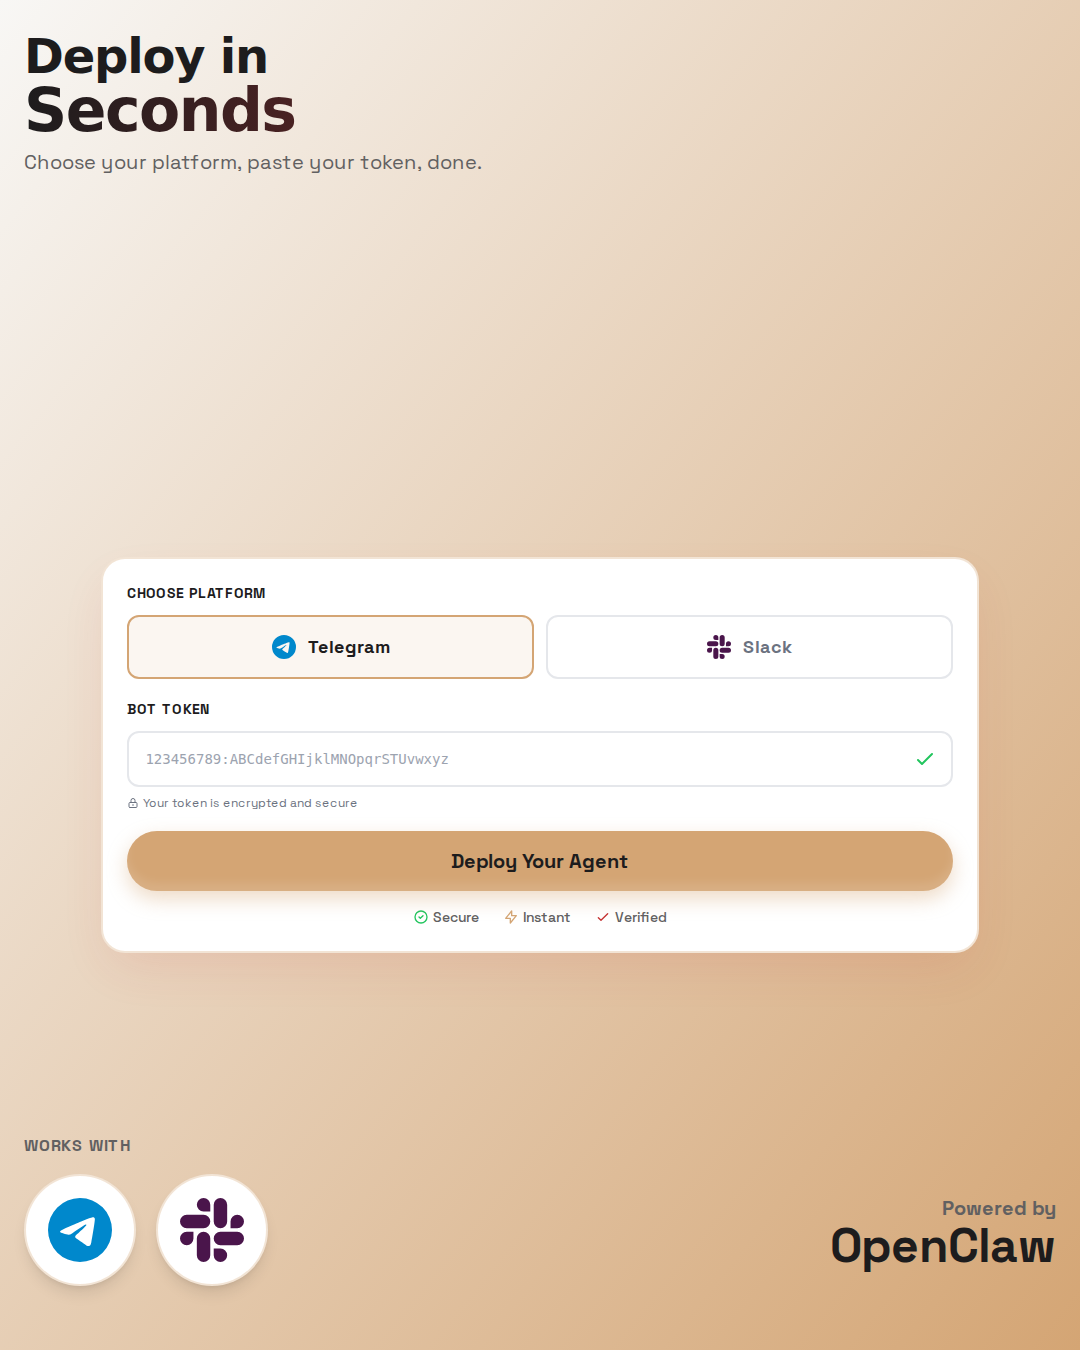
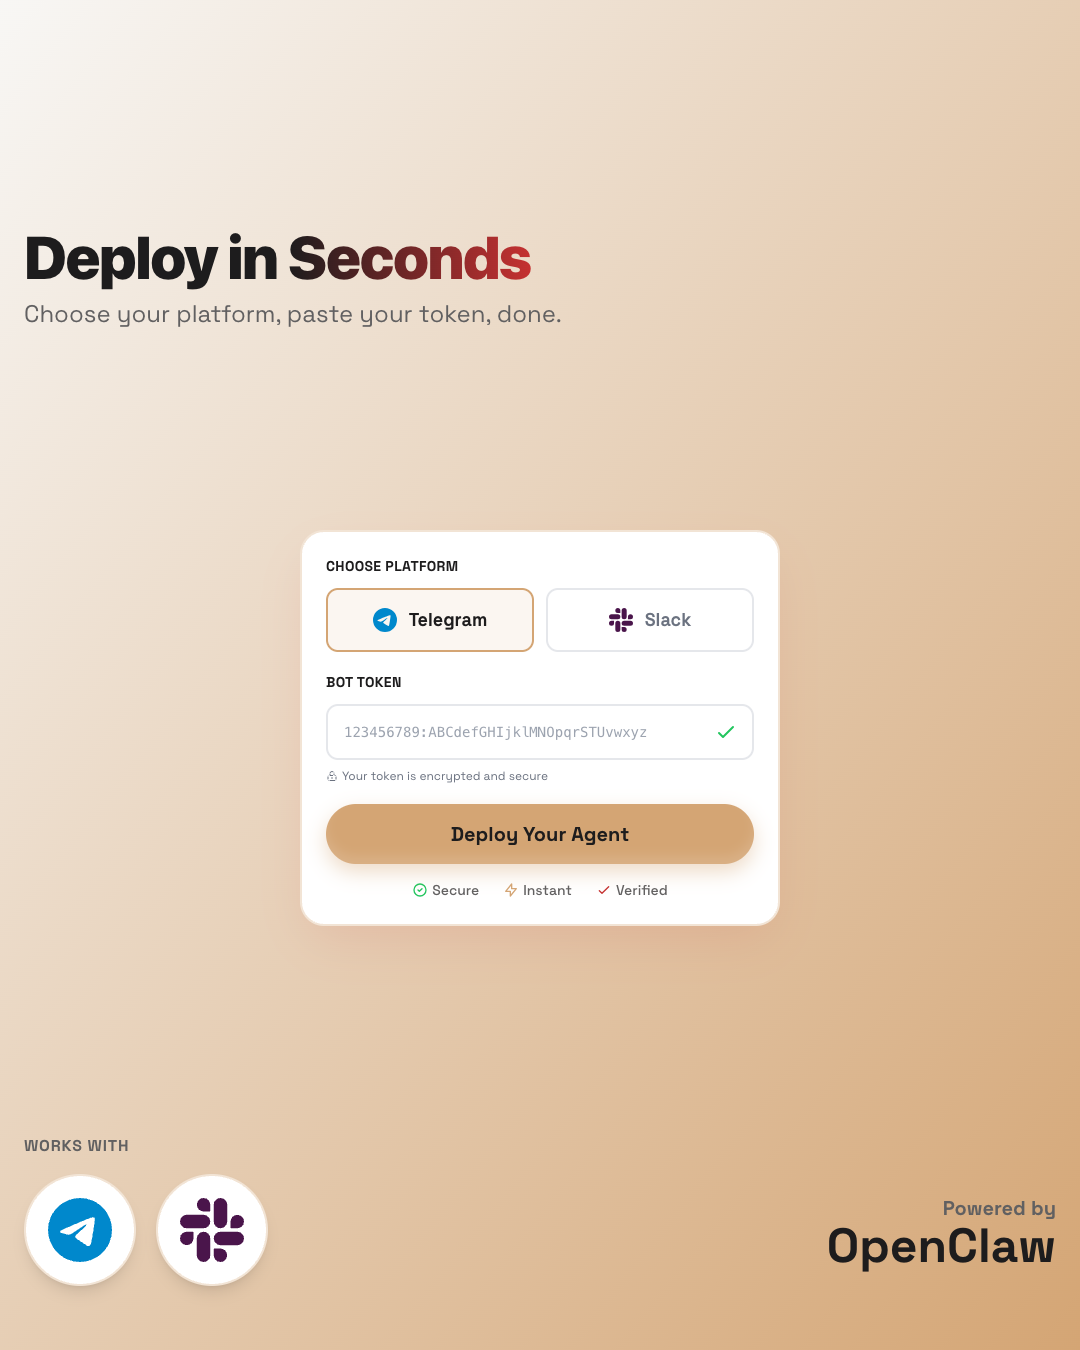
Revamped all post 1 slides with new directions

diff --git a/pages/slide-05-enhanced.js b/pages/slide-05-enhanced.js
@@ -5,60 +5,87 @@ const spaceGrotesk = Space_Grotesk({ subsets: ['latin'], display: 'swap' });
 
 const Slide05CTA = () => {
   return (
-    <div className={`${spaceGrotesk.className} min-h-screen w-full flex flex-col items-center justify-center bg-gradient-to-br from-[#F8F7F5] to-[#D4A574] p-8 font-sans antialiased`}>
-      {/* Main Content */}
-      <div className="text-center max-w-[800px]">
-        {/* Headline */}
-        <h1 className="font-sans text-6xl md:text-7xl font-bold tracking-tight leading-[1.1] bg-gradient-to-r from-[#1D1C1D] via-[#c53131] via-[#D4A574] to-[#1D1C1D] bg-clip-text text-transparent bg-[length:200%_auto] mb-6">
-          Ready for Your<br/>AI Assistant?
-        </h1>
-
-        {/* Subheadline */}
-        <p className="text-2xl md:text-3xl text-[#616061] font-medium mb-10">
-          Deploy in 60 seconds. No setup required.
-        </p>
-
-        {/* CTA Button - Shimmer Style */}
-        <div className="mb-8">
-          <button 
-            className="group relative px-12 py-4 rounded-full overflow-hidden border border-white/20 text-[#1D1C1D] font-bold text-xl shadow-lg transition-all duration-300 hover:-translate-y-0.5 hover:shadow-xl active:scale-95"
-            style={{ background: '#D4A574' }}
-          >
-            {/* Shimmer effect */}
-            <div className="absolute inset-0 -z-10 blur-[2px] overflow-visible">
-              <div className="absolute inset-0 h-full animate-[shimmer_3s_infinite]">
-                <div className="absolute -inset-full w-auto h-full animate-[spin_3s_linear_infinite] bg-[conic-gradient(from_225deg,transparent_0,#1A1A1A_90deg,transparent_90deg)] opacity-20" />
-              </div>
-            </div>
-            
-            {/* Highlight */}
-            <div className="absolute inset-0 rounded-full shadow-[inset_0_-8px_10px_#ffffff1f] group-hover:shadow-[inset_0_-6px_10px_#ffffff2a] transition-all duration-300" />
-            
-            {/* Content */}
-            <span className="relative z-10 flex items-center justify-center gap-2">
-              Deploy Now
-              <svg className="w-5 h-5 transition-transform group-hover:translate-x-1" fill="none" viewBox="0 0 24 24" stroke="currentColor">
-                <path strokeLinecap="round" strokeLinejoin="round" strokeWidth={2} d="M14 5l7 7m0 0l-7 7m7-7H3" />
-              </svg>
-            </span>
-          </button>
-        </div>
-
-        {/* URL */}
-        <p className="text-lg text-[#616061] font-medium">
-          instantclaw.com
-        </p>
-      </div>
-
-      {/* Bottom Branding */}
-      <div className="absolute bottom-10 flex items-center gap-3">
+    <div className={`${spaceGrotesk.className} min-h-screen w-full flex flex-col bg-gradient-to-br from-[#F8F7F5] to-[#D4A574] p-6 font-sans antialiased relative`}>
+      {/* Top: InstantClaw Logo - Same as Slide 01 Revised */}
+      <div className="flex items-center gap-4 mb-4">
         <img 
           src="/instantclaw-logo.png" 
           alt="InstantClaw" 
-          className="h-10 w-auto"
+          className="h-28 w-28"
           onError={(e) => { e.target.style.display = 'none'; }}
         />
-        <span className="text-2xl font-bold text-[#1D1C1D]">InstantClaw</span>
+        <span className="text-4xl font-bold tracking-tight text-[#1D1C1D]">InstantClaw</span>
+      </div>
+
+      {/* Main Content - Headlines and core content unchanged */}
+      <div className="flex-1 flex items-center justify-center">
+        <div className="text-center max-w-[800px]">
+          {/* Headline */}
+          <h1 className="font-sans text-6xl md:text-7xl font-bold tracking-tight leading-[1.1] bg-gradient-to-r from-[#1D1C1D] via-[#c53131] via-[#D4A574] to-[#1D1C1D] bg-clip-text text-transparent bg-[length:200%_auto] mb-6">
+            Ready for Your<br/>AI Assistant?
+          </h1>
+
+          {/* Subheadline */}
+          <p className="text-2xl md:text-3xl text-[#616061] font-medium mb-10">
+            Deploy in 60 seconds. No setup required.
+          </p>
+
+          {/* CTA Button - Shimmer Style */}
+          <div className="mb-8">
+            <button 
+              className="group relative px-12 py-4 rounded-full overflow-hidden border border-white/20 text-[#1D1C1D] font-bold text-xl shadow-lg transition-all duration-300 hover:-translate-y-0.5 hover:shadow-xl active:scale-95"
+              style={{ background: '#D4A574' }}
+            >
+              {/* Shimmer effect */}
+              <div className="absolute inset-0 -z-10 blur-[2px] overflow-visible">
+                <div className="absolute inset-0 h-full animate-[shimmer_3s_infinite]">
+                  <div className="absolute -inset-full w-auto h-full animate-[spin_3s_linear_infinite] bg-[conic-gradient(from_225deg,transparent_0,#1A1A1A_90deg,transparent_90deg)] opacity-20" />
+                </div>
+              </div>
+              
+              {/* Highlight */}
+              <div className="absolute inset-0 rounded-full shadow-[inset_0_-8px_10px_#ffffff1f] group-hover:shadow-[inset_0_-6px_10px_#ffffff2a] transition-all duration-300" />
+              
+              {/* Content */}
+              <span className="relative z-10 flex items-center justify-center gap-2">
+                Deploy Now
+                <svg className="w-5 h-5 transition-transform group-hover:translate-x-1" fill="none" viewBox="0 0 24 24" stroke="currentColor">
+                  <path strokeLinecap="round" strokeLinejoin="round" strokeWidth={2} d="M14 5l7 7m0 0l-7 7m7-7H3" />
+                </svg>
+              </span>
+            </button>
+          </div>
+
+          {/* URL */}
+          <p className="text-lg text-[#616061] font-medium">
+            instantclaw.com
+          </p>
+        </div>
+      </div>
+
+      {/* Bottom Left: Platform Logos - Same as Slide 01 Revised */}
+      <div className="absolute bottom-16 left-6">
+        <p className="text-base text-[#616061] font-bold mb-4 uppercase tracking-wider">
+          Works with
+        </p>
+        <div className="flex items-center gap-5">
+          <div className="w-28 h-28 rounded-full bg-white flex items-center justify-center shadow-lg border-2 border-[#D4A574]/30">
+            <img src="/telegram.svg" alt="Telegram" className="w-16 h-16" />
+          </div>
+          <div className="w-28 h-28 rounded-full bg-white flex items-center justify-center shadow-lg border-2 border-[#D4A574]/30">
+            <img src="/slack.svg" alt="Slack" className="w-16 h-16" />
+          </div>
+        </div>
+      </div>
+
+      {/* Bottom Right: Powered by OpenClaw - Same as Slide 01 Revised */}
+      <div className="absolute bottom-20 right-6 text-right">
+        <p className="text-xl text-[#616061] font-bold">
+          Powered by
+        </p>
+        <p className="text-5xl font-black text-[#1D1C1D]">
+          OpenClaw
+        </p>
       </div>
     </div>
   );

diff --git a/pages/slide-04-staggered.js b/pages/slide-04-staggered.js
@@ -44,50 +44,71 @@ const Slide04Staggered = () => {
   ];
 
   return (
-    <div className={`${spaceGrotesk.className} min-h-screen w-full flex flex-col items-center justify-center bg-gradient-to-br from-[#F8F7F5] to-[#D4A574] p-6 font-sans antialiased`}>
-      {/* Title */}
-      <div className="text-center mb-8">
-        <h1 className="font-sans text-5xl md:text-6xl font-bold tracking-tight bg-gradient-to-r from-[#1D1C1D] via-[#c53131] via-[#D4A574] to-[#1D1C1D] bg-clip-text text-transparent bg-[length:200%_auto]">
-          Your AI Agent Handles
+    <div className={`${spaceGrotesk.className} min-h-screen w-full flex flex-col bg-gradient-to-br from-[#F8F7F5] to-[#D4A574] px-6 py-6 font-sans antialiased relative`}>
+      {/* TOP: Headline centered vertically in the space above the content */}
+      <div className="flex-1 flex flex-col justify-center">
+        <h1 className="font-sans text-6xl font-black tracking-tight text-[#1D1C1D] leading-[1.1]">
+          Your AI Agent{' '}
+          <span className="bg-gradient-to-r from-[#1D1C1D] via-[#c53131] via-[#D4A574] to-[#1D1C1D] bg-clip-text text-transparent bg-[length:200%_auto]">Handles</span>
         </h1>
+        <p className="text-2xl text-[#616061] mt-2">
+          Transcribe, analyze, create — and 100+ more.
+        </p>
       </div>
 
-      {/* Staggered List */}
-      <div className="w-full max-w-[500px] space-y-4">
-        {useCases.map((item, index) => (
-          <div 
-            key={index}
-            className={`bg-white rounded-2xl p-4 flex items-center gap-4 ${
-              index % 2 === 0 ? 'mr-auto' : 'ml-auto'
-            }`}
-            style={{ 
-              boxShadow: '0 10px 40px -12px rgba(197, 49, 49, 0.12)',
-              width: '85%'
-            }}
-          >
-            {/* Icon with gold brand background */}
-            <div className="w-14 h-14 rounded-xl bg-[#D4A574] flex items-center justify-center shrink-0 text-white">
-              {item.icon}
+      {/* CENTER: Staggered list at natural height — centered on page by equal flex-1 above and below */}
+      <div className="flex flex-col items-center">
+        <div className="w-full max-w-[500px] space-y-4">
+          {useCases.map((item, index) => (
+            <div 
+              key={index}
+              className={`bg-white rounded-2xl p-4 flex items-center gap-4 ${
+                index % 2 === 0 ? 'mr-auto' : 'ml-auto'
+              }`}
+              style={{ 
+                boxShadow: '0 10px 40px -12px rgba(197, 49, 49, 0.12)',
+                width: '85%'
+              }}
+            >
+              {/* Icon with gold brand background */}
+              <div className="w-14 h-14 rounded-xl bg-[#D4A574] flex items-center justify-center shrink-0 text-white">
+                {item.icon}
+              </div>
+              <div>
+                <h3 className="text-xl font-bold text-[#1D1C1D]">{item.title}</h3>
+                <p className="text-sm text-[#616061] mt-1">{item.description}</p>
+              </div>
             </div>
-            <div>
-              <h3 className="text-xl font-bold text-[#1D1C1D]">{item.title}</h3>
-              <p className="text-sm text-[#616061] mt-1">{item.description}</p>
-            </div>
+          ))}
+        </div>
+      </div>
+
+      {/* BOTTOM: Empty flex-1 to center the content vertically (footer overlays via absolute) */}
+      <div className="flex-1" />
+
+      {/* Bottom Left: Platform Logos - Same as Slide 3 */}
+      <div className="absolute bottom-16 left-6">
+        <p className="text-base text-[#616061] font-bold mb-4 uppercase tracking-wider">
+          Works with
+        </p>
+        <div className="flex items-center gap-5">
+          <div className="w-28 h-28 rounded-full bg-white flex items-center justify-center shadow-lg border-2 border-[#D4A574]/30">
+            <img src="/telegram.svg" alt="Telegram" className="w-16 h-16" />
           </div>
-        ))}
+          <div className="w-28 h-28 rounded-full bg-white flex items-center justify-center shadow-lg border-2 border-[#D4A574]/30">
+            <img src="/slack.svg" alt="Slack" className="w-16 h-16" />
+          </div>
+        </div>
       </div>
 
-      {/* Bottom Tagline */}
-      <p className="mt-8 text-lg text-[#616061] font-medium text-center">
-        And 100+ more use cases...
-      </p>
-
-      {/* Swipe indicator */}
-      <div className="mt-6 flex items-center gap-2 text-[#616061]">
-        <span className="text-sm">Swipe to get started</span>
-        <svg className="w-5 h-5" fill="none" viewBox="0 0 24 24" stroke="currentColor">
-          <path strokeLinecap="round" strokeLinejoin="round" strokeWidth={2} d="M9 5l7 7-7 7" />
-        </svg>
+      {/* Bottom Right: Powered by OpenClaw - Same as Slide 3 */}
+      <div className="absolute bottom-20 right-6 text-right">
+        <p className="text-xl text-[#616061] font-bold">
+          Powered by
+        </p>
+        <p className="text-5xl font-black text-[#1D1C1D]">
+          OpenClaw
+        </p>
       </div>
     </div>
   );

diff --git a/pages/slide-03-revamped.js b/pages/slide-03-revamped.js
@@ -6,24 +6,22 @@ const spaceGrotesk = Space_Grotesk({ subsets: ['latin'], display: 'swap' });
 // Slide 3: Deploy Form - Following Slide 1 patterns
 const Slide03Revamped = () => {
   return (
-    <div className={`${spaceGrotesk.className} min-h-screen w-full flex flex-col bg-gradient-to-br from-[#F8F7F5] to-[#D4A574] p-6 font-sans antialiased relative`}>
+    <div className={`${spaceGrotesk.className} min-h-screen w-full flex flex-col bg-gradient-to-br from-[#F8F7F5] to-[#D4A574] px-6 py-6 font-sans antialiased relative`}>
       
-      {/* TOP SECTION: Title and Subheadline - centered in top area */}
-      <div className="h-[160px] flex flex-col justify-center">
-        <h1 className="font-sans text-5xl font-black tracking-tight text-[#1D1C1D]">
-          Deploy in
+      {/* TOP: Headline centered vertically in the space above the form */}
+      <div className="flex-1 flex flex-col justify-center">
+        <h1 className="font-sans text-6xl font-black tracking-tight text-[#1D1C1D] leading-[1.1]">
+          Deploy in{' '}
+          <span className="bg-gradient-to-r from-[#1D1C1D] via-[#c53131] via-[#D4A574] to-[#1D1C1D] bg-clip-text text-transparent bg-[length:200%_auto]">Seconds</span>
         </h1>
-        <h2 className="font-sans text-6xl font-black tracking-tight bg-gradient-to-r from-[#1D1C1D] via-[#c53131] via-[#D4A574] to-[#1D1C1D] bg-clip-text text-transparent bg-[length:200%_auto]">
-          Seconds
-        </h2>
-        <p className="text-xl text-[#616061] mt-2">
+        <p className="text-2xl text-[#616061] mt-2">
           Choose your platform, paste your token, done.
         </p>
       </div>
 
-      {/* MIDDLE: Form - vertically centered */}
-      <div className="flex-1 flex items-center justify-center">
-        <div className="bg-white rounded-3xl shadow-xl p-6 w-[85%] border-2 border-[#D4A574]/30" style={{ boxShadow: '0 20px 50px -10px rgba(197, 49, 49, 0.12)' }}>
+      {/* CENTER: Form at natural height — centered on page by equal flex-1 above and below */}
+      <div className="flex items-center justify-center">
+        <div className="bg-white rounded-3xl shadow-xl p-6 w-full max-w-[480px] border-2 border-[#D4A574]/30" style={{ boxShadow: '0 20px 50px -10px rgba(197, 49, 49, 0.12)' }}>
           
           {/* Platform Selection */}
           <div className="mb-5">
@@ -96,6 +94,9 @@ const Slide03Revamped = () => {
           </div>
         </div>
       </div>
+
+      {/* BOTTOM: Empty flex-1 to center the form vertically (footer overlays via absolute) */}
+      <div className="flex-1" />
 
       {/* Bottom Left: Platform Logos - Same as Slide 1 */}
       <div className="absolute bottom-16 left-6">

diff --git a/pages/slide-02-vps.js b/pages/slide-02-vps.js
@@ -10,11 +10,11 @@ const Slide02VPS = () => {
       
       {/* TOP: Headline centered vertically in the space above the cards */}
       <div className="flex-1 flex flex-col justify-center">
-        <h1 className="font-sans text-5xl font-black tracking-tight text-[#1D1C1D] leading-[1.1]">
+        <h1 className="font-sans text-6xl font-black tracking-tight text-[#1D1C1D] leading-[1.1]">
           Self-Hosting<br/>
           <span className="bg-gradient-to-r from-[#1D1C1D] via-[#c53131] via-[#D4A574] to-[#1D1C1D] bg-clip-text text-transparent bg-[length:200%_auto]">OpenClaw</span> vs InstantClaw
         </h1>
-        <p className="text-xl text-[#616061] mt-2">Why spend days when you can deploy in seconds?</p>
+        <p className="text-2xl text-[#616061] mt-2">Why spend days when you can deploy in seconds?</p>
       </div>
 
       {/* CENTER: Cards at natural height — centered on page by equal flex-1 above and below */}
